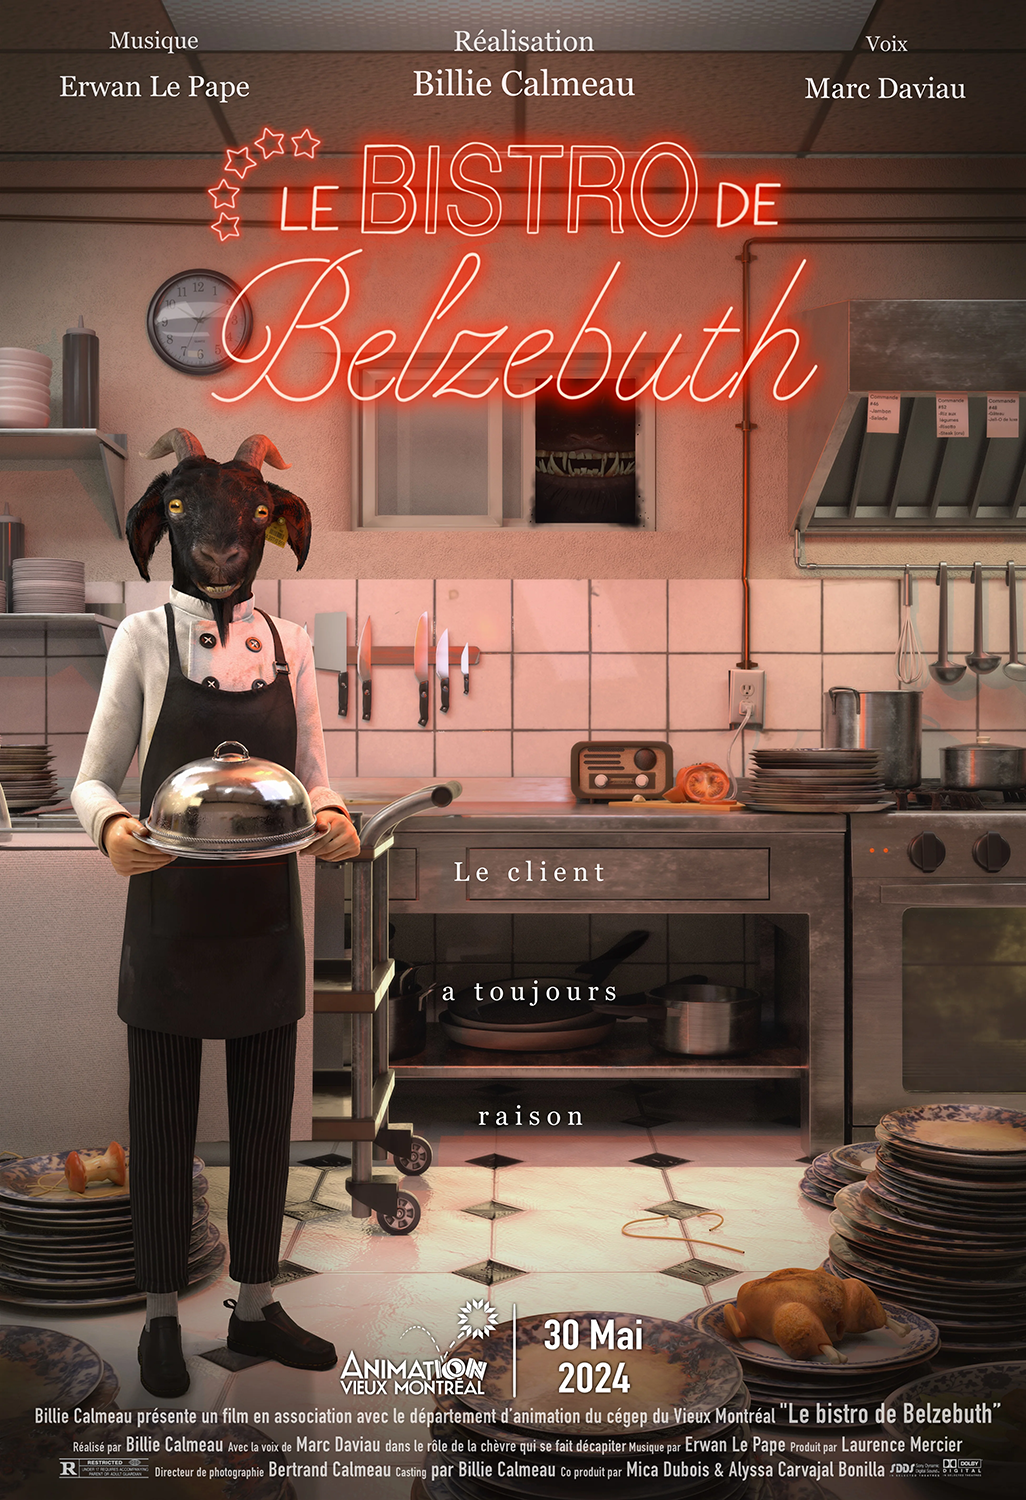
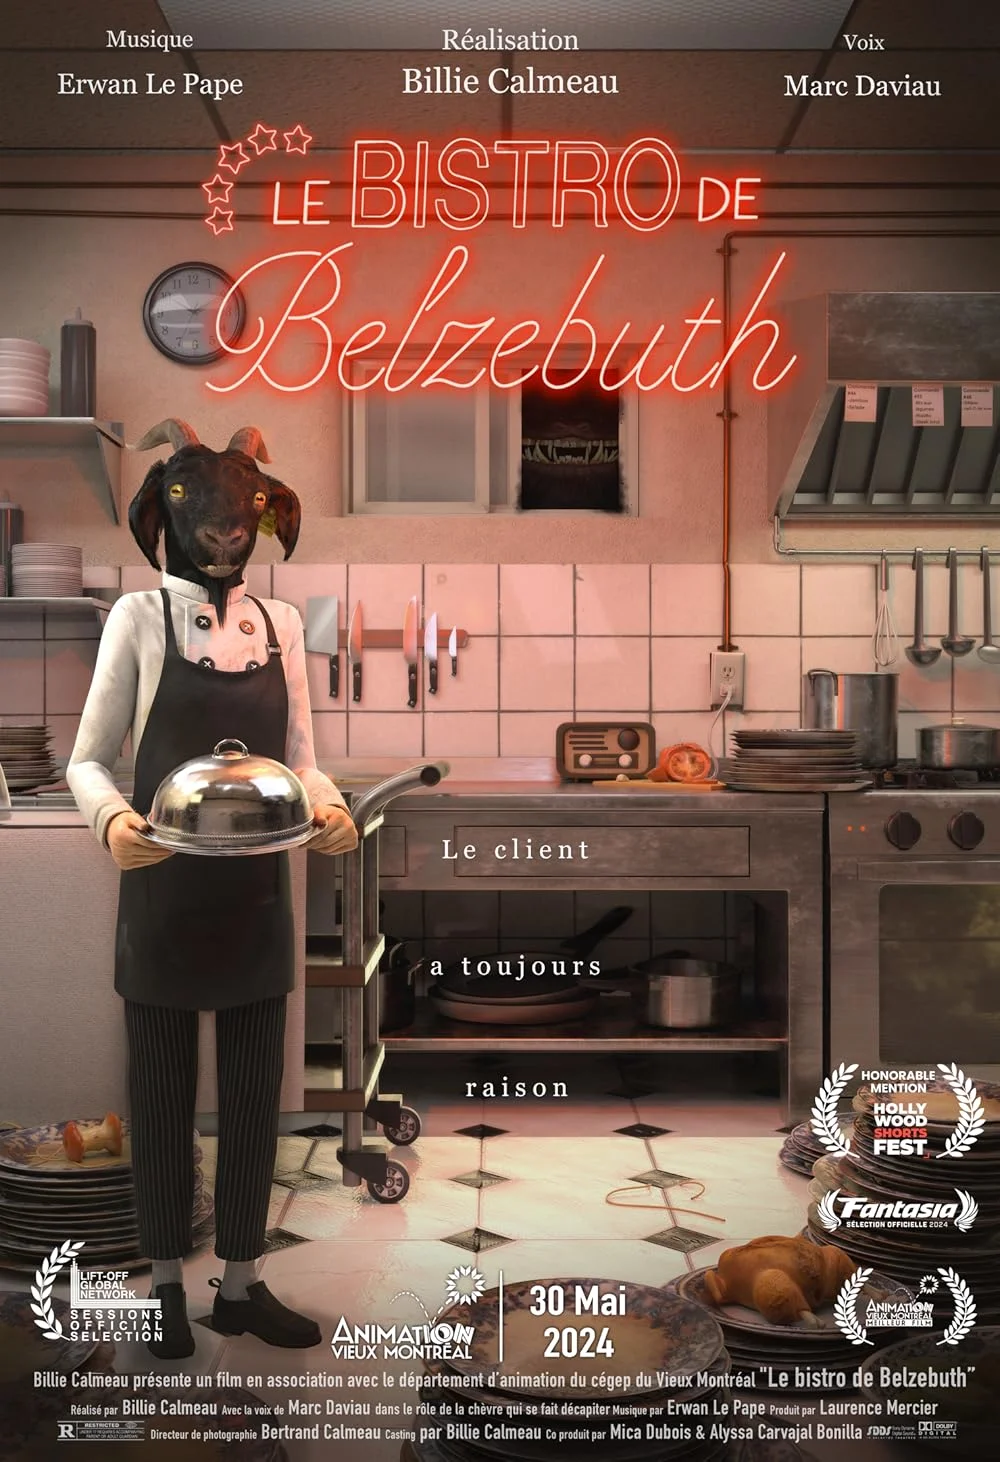
bistro changes

diff --git a/src/lib/mediaList.js b/src/lib/mediaList.js
@@ -14,7 +14,7 @@ export const mediaList = [
         youtube: 'ORlNFLSYQmw',
         soundcloud: 'https://on.soundcloud.com/SArJnmmf1iAqP1Te8',
         soundcloudAPINumber: 'playlists/1825386888',
-        descriptiveText: "This animation received the first prize upon graduation from the school Animation Vieux Montréal."
+        descriptiveText: "Late at night, a cook prepares food for a hungry demon. As he brings the main course, things get tense. This animation received the first prize upon graduation from the school Animation Vieux Montréal and the honorable mention at the Hollywood Shortsfest."
     },
     {
         id: 'the-peasants',
